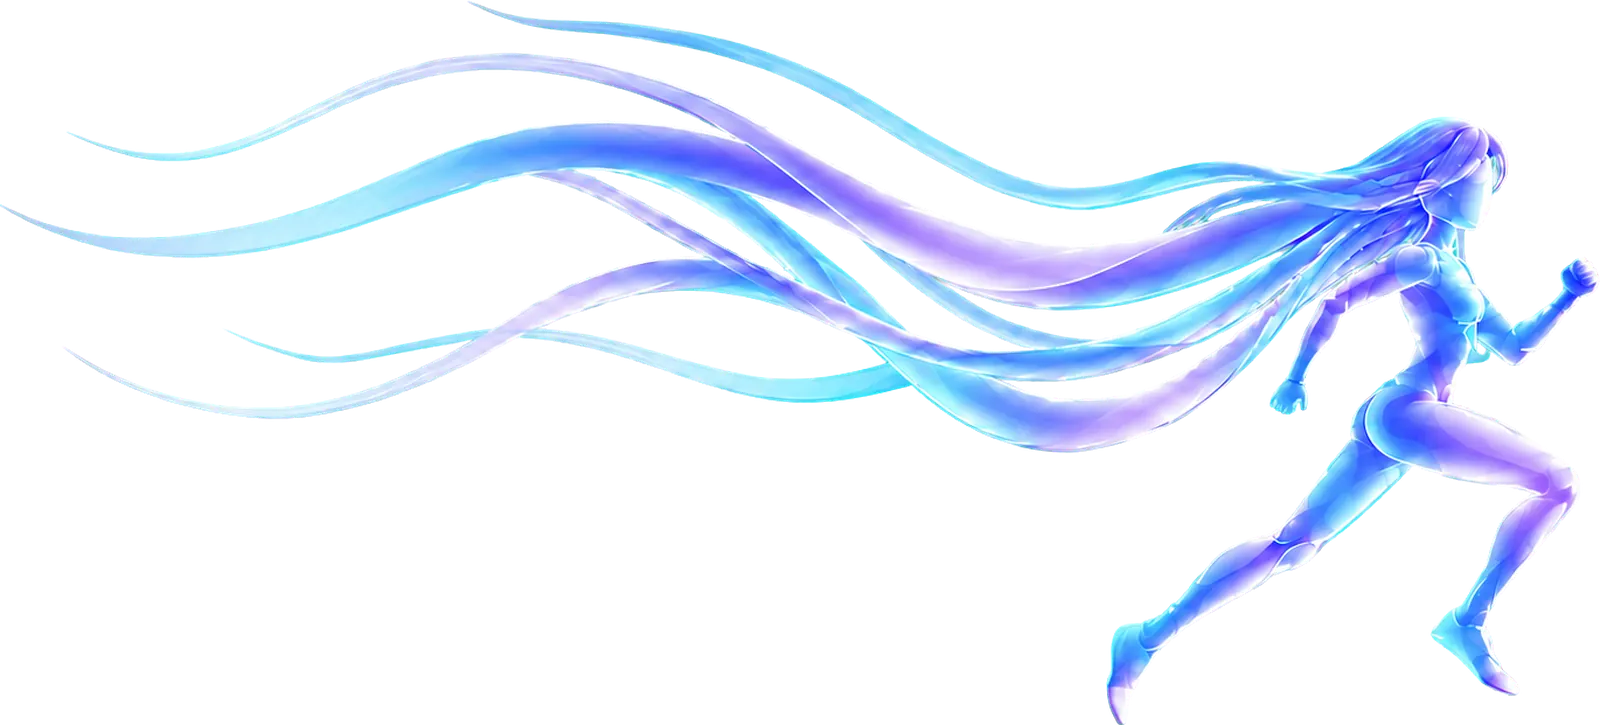
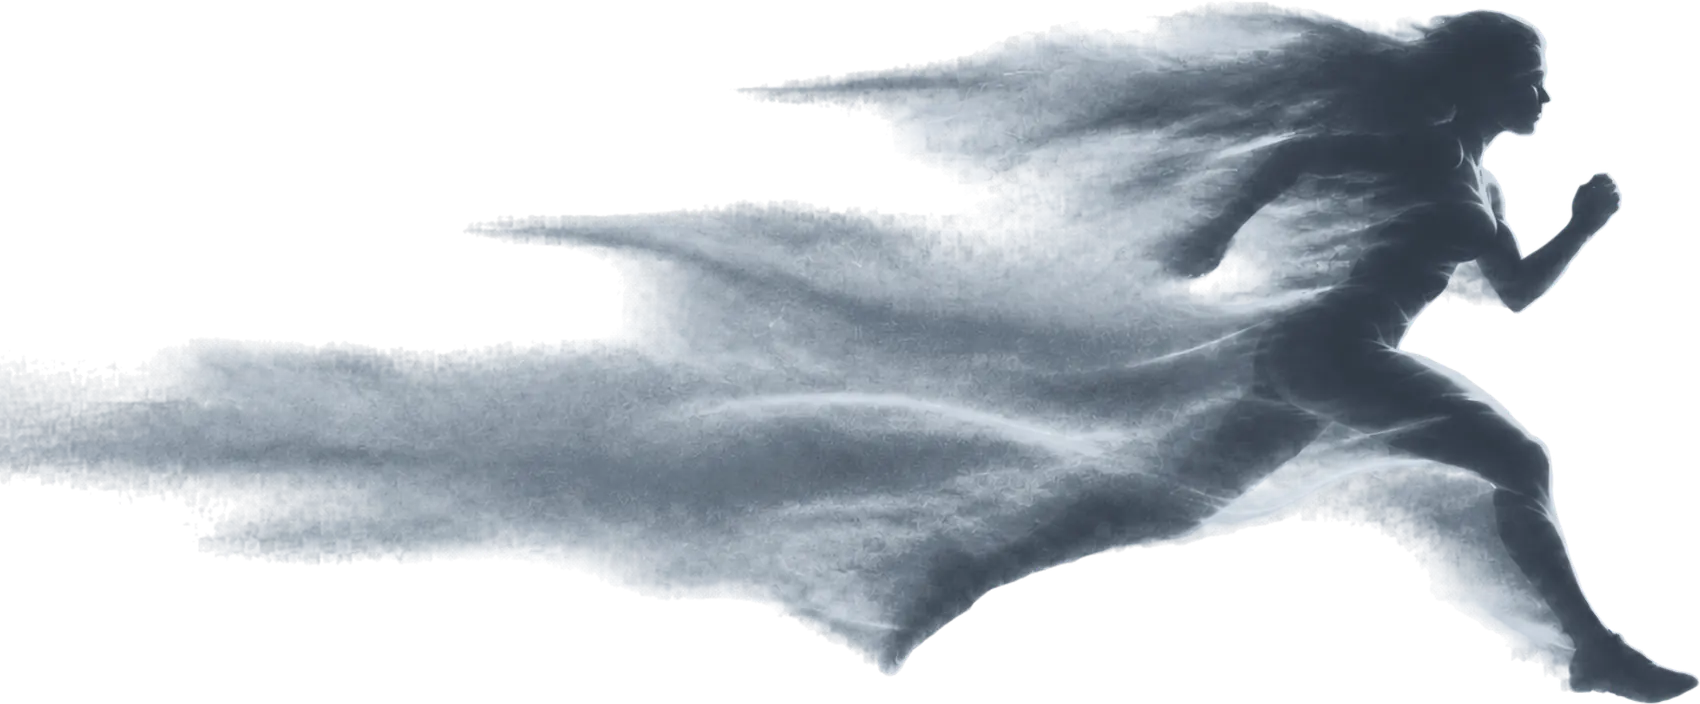
feat: swap in the new runner artwork
The trail is drawn as dispersing particles rather than strands, which
was the "worm jelly" complaint about the previous set. Light takes
aurora, whose cyan and magenta match the palette; dark takes silver,
which ties to the chrome charms around the edges.

The artwork is wider than the one it replaces and her face now sits at
75%-91% of its width instead of 80%-94.5%, so the offset is re-solved
from that geometry rather than carried over: the face lands just past
the right edge from 2560x1400 down to 390x844. Mobile is re-solved the
same way, since freezing numbers measured against a different image
would not have preserved what they were for.

None of these colourways contains pure white, so the contrast ceiling
rises from 0.36 to between 0.41 and 0.51; opacity goes to 0.5 light and
0.4 dark, both inside it.

diff --git a/styles.css b/styles.css
@@ -1835,15 +1835,16 @@ main {
 .runner {
   position: absolute;
   left: 50%;
-  /* Sized and offset from the artwork's own geometry: her face spans 80%-94.5%
-     of its width, so this lands it just past the right edge at every size. */
+  /* Sized and offset from the artwork's own geometry: her face spans 75%-91%
+     of its width, so this lands it just past the right edge at every size.
+     The offset solves 50 + margin + 0.91 x width = 102. */
   top: 2vh;
-  width: 175vw;
+  width: 170vw;
   height: auto;
-  margin-left: -113vw;
-  /* Their brightest pixels are pure white, and 0.36 is where body text still
-     clears AA if it crosses one. */
-  opacity: 0.3;
+  margin-left: -102.7vw;
+  /* No pure white in this artwork, so it can sit brighter than the last one
+     without body text crossing the trail losing contrast. */
+  opacity: 0.5;
 }
 
 .runner-dark {
@@ -1856,14 +1857,14 @@ main {
 
 :root[data-theme="dark"] .runner-dark {
   display: block;
-  opacity: 0.34;
+  opacity: 0.4;
 }
 
 @media (max-width: 720px) {
   .runner {
-    top: 12vh;
-    width: 240vw;
-    margin-left: -170vw;
+    top: 10vh;
+    width: 260vw;
+    margin-left: -184.6vw;
   }
 }
 
@@ -2158,9 +2159,9 @@ main {
    =========================================================================== */
 @media (max-width: 720px) {
   .runner {
-    top: 12vh;
-    width: 240vw;
-    margin-left: -170vw;
+    top: 10vh;
+    width: 260vw;
+    margin-left: -184.6vw;
   }
   .orb {
     filter: blur(52px);

diff --git a/scripts/import_illustrations.py b/scripts/import_illustrations.py
@@ -19,7 +19,7 @@ from PIL import Image
 ROOT = Path(__file__).resolve().parent.parent
 SRC = ROOT / "image icon" / "health-illustration-set-complete"
 CHARMS = ROOT / "image icon" / "web-assets"
-RUNNERS = ROOT / "image icon" / "runner-7lock-colorways"
+RUNNERS = ROOT / "image icon" / "runner_colors"
 OUT = ROOT / "images"
 
 # (source, output, rendered size in CSS pixels x2 for high-density screens)
@@ -66,8 +66,8 @@ CHARM_PLAN = [
 # The runner behind the page, in the colourway that suits each theme: the
 # cooler one carries on a dark ground, the brighter one on a light.
 RUNNER_PLAN = [
-    ("runner-7lock-aurora.png", "runner-light.webp", 1600),
-    ("runner-7lock-moonlight.png", "runner-dark.webp", 1600),
+    ("aurora.png", "runner-light.webp", 1700),
+    ("silver.png", "runner-dark.webp", 1700),
 ]
 
 

diff --git a/memory.md b/memory.md
@@ -123,9 +123,11 @@ python3 -m http.server 8000 --bind 127.0.0.1  # 로컬 서버
   **"Quotes about" 섹션은 반드시 제외** — 그건 타인이 그 작가에 대해 한 말이라 귀속이 거짓이 됨.
   misattributed/disputed 섹션도 제외. 비영어 원문(프루스트 등)도 필터.
   **인용문을 직접 지어내 실존 작가에 붙이지 말 것.** 한국어 Wikiquote 는 이 작가들 문서가 거의 없음.
-- **배경 러너(2026-09-09)**: `image icon/runner-7lock-colorways/` 4색 중 라이트=aurora,
-  다크=moonlight 를 테마별로 표시(나머지 silver/sunset 은 예비). 2:1 가로형이라 좌우로 흘려보내
-  움직임을 만듦(132vw). 흰 하이라이트 때문에 **다크 상한 0.36**. 이전 세로형 giant 는 대체됨.
+- **배경 러너(2026-09-10 교체)**: `image icon/runner_colors/` 5색(aurora/current/moonlight/
+  silver/sunset). 라이트=aurora, 다크=silver. 이전 세트의 "머리카락이 지렁이 같다" 문제가
+  입자·연기 표현으로 해결됨. 비율 2.42, **얼굴이 가로 75~91% 지점** → 오프셋은
+  `50 + margin + 0.91×width = 102` 을 풀어서 정함(데스크톱 170vw/-102.7vw, 모바일 260vw/-184.6vw).
+  순백색이 없어 대비 상한이 0.41~0.51 로 넉넉함(이전 세트는 0.36).
 - **엣지 장식 참(2026-09-09)**: `image icon/web-assets/` 의 실사 키링·백참·낙서·자동차를
   화면 가장자리에 배치. 좌우 키링은 100vh, 본문 열을 덜 침범하도록 -14vw/-20vw 로 빼둠.
   **흰 하이라이트가 강해 다크 테마 상한은 0.32** (그 이상이면 흰 하이라이트 위 본문이 AA 미달).
